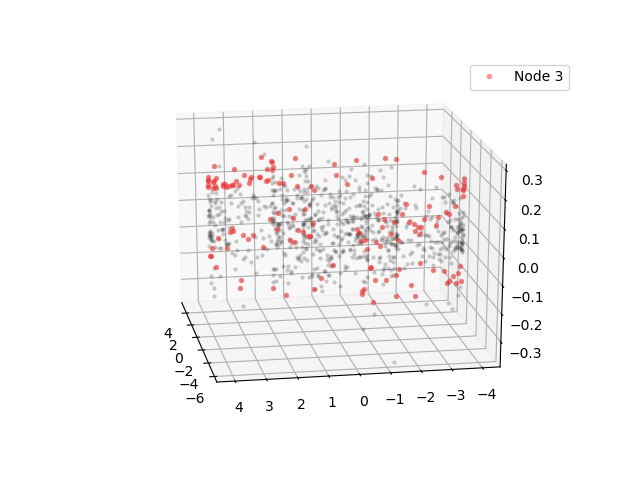
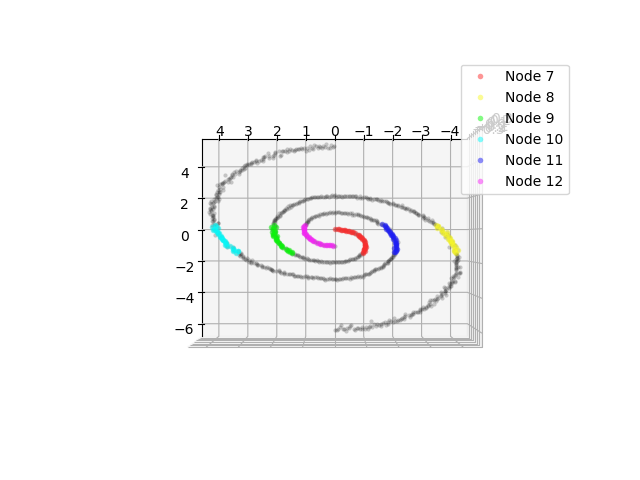
update2

diff --git a/tests/testFrank.py b/tests/testFrank.py
@@ -15,10 +15,11 @@ mkdir_p(params.PLOT_PATH)
 
 fname1="/Users/xiaosuhu/Documents/Python/mapper-tda/tests/spirals.npy"
 data=np.load(fname1)
+#data_reorg=np.column_stack((data[:,2], data[:,1], data[:,0]))
 '''
 fname2="/Users/xiaosuhu/Documents/Python/mapper-tda/tests/lion_data.npy"
 datalion=np.load(fname2)
 '''
 plot_3d(data,fname='franktestsparial.png')
-test=em.ExploreMapper(data,slc.SingleLinkageClustering,ff.EccentricityP)
+test=em.ExploreMapper(data,slc.NNC,ff.AxisProj)
 

diff --git a/mapper/em_help.py b/mapper/em_help.py
@@ -57,6 +57,11 @@ def plot_graph(G, filename='prova.png', values=None, colorbar_obj=None):
 
 def get_colors(num_colors):
     colors=[]
+
+    if num_colors==0:
+        num_colors=1
+        np.disp('num_colors equal to 0, consider resetting parameters')
+
     for i in np.arange(0., 360., 360. / num_colors):
         hue = i/360.
         lightness = (50 + np.random.rand() * 10)/100.

diff --git a/mapper/params_default.py b/mapper/params_default.py
@@ -11,7 +11,7 @@ DATASET_DIM = 3
 # Graph Plot Parameters
 
 PLOT_PATH = os.getcwd() + '/plots/'
-ANGLE = (20,170)
+ANGLE = (90,180)
 plot_type_str = ['spring', 'random' ,'shell' ,'spectral' ,'viz'][4]
 
 
@@ -23,7 +23,7 @@ CLUSTERING_BIN_NUMBER = 'auto'
 
 
 # Filter Function Parameters
-eccentricity_P = 2
+eccentricity_P = 1
 
 
 # Mapper Paramteres

diff --git a/tests/params.py b/tests/params.py
@@ -14,7 +14,7 @@ DATA_PATH = os.getcwd() + '/tests/'
 # Graph Plot Parameters
 
 PLOT_PATH = os.getcwd() + '/plots/'
-ANGLE = (20,170)
+ANGLE = (90,180)
 plot_type_str = ['spring', 'random' ,'shell' ,'spectral' ,'viz'][4]
 
 
@@ -30,8 +30,8 @@ eccentricity_P = 2
 
 
 # Mapper Paramteres
-p = .1
-N = 8
+p = .04
+N = 7
 
 
 

diff --git a/mapper/single_linkage_clustering.py b/mapper/single_linkage_clustering.py
@@ -154,7 +154,7 @@ class NNC(em.ClusteringTDA):
 
 
     def cdistance_norm(self, a, b):
-        return cdist(a, b, metric='seuclidean',V=self.var_vec)[0]
+        return cdist(a, b, metric='sqeuclidean',V=self.var_vec)[0]
 
 
     def merge_clusters(self, neighbor_clusters, nodes):
